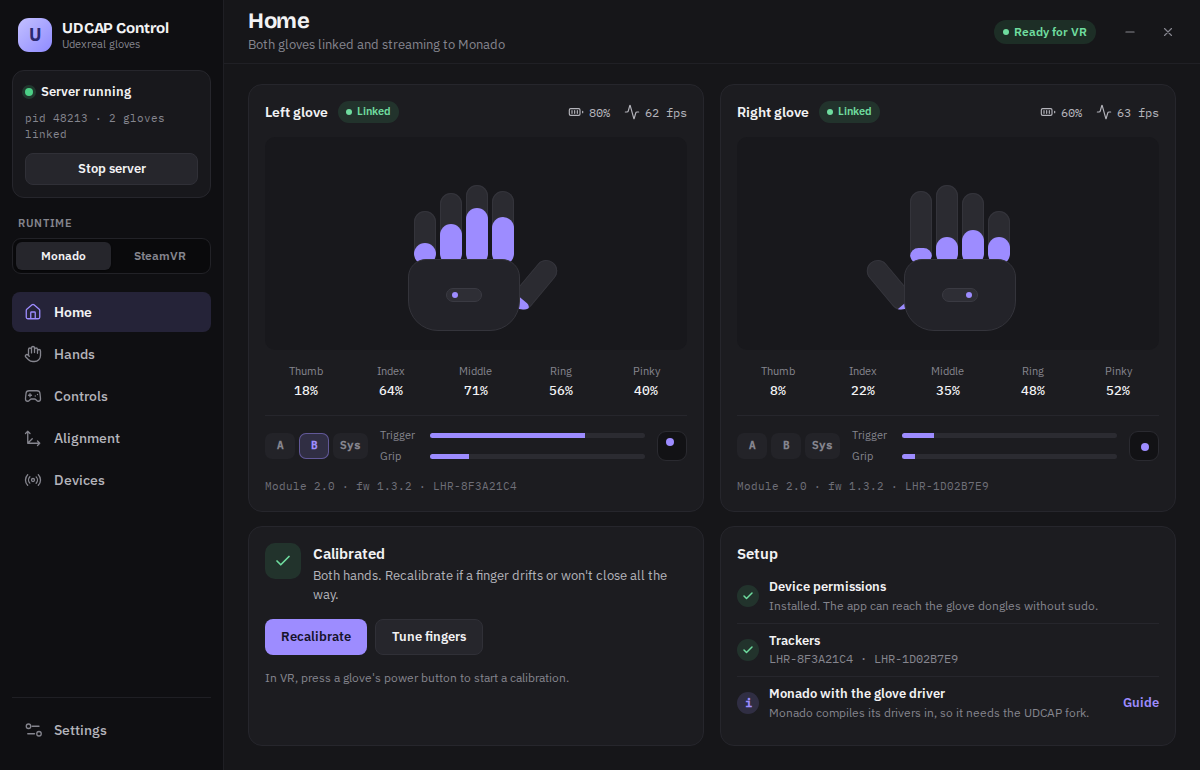
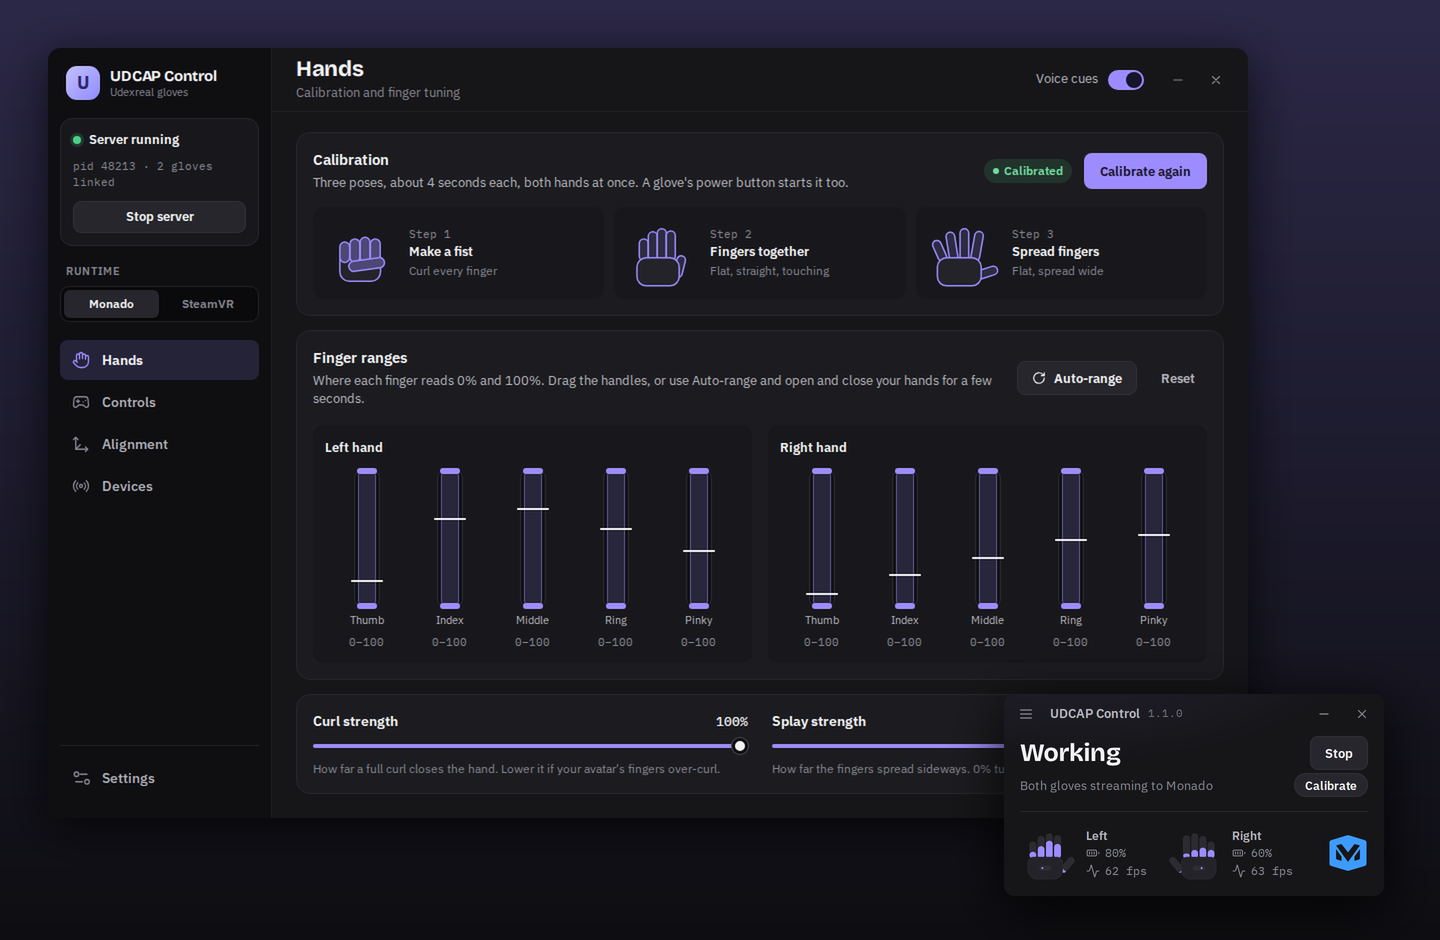
chore: update readme with new screenshots

diff --git a/README.md b/README.md
@@ -15,13 +15,15 @@
 UDCAP Control is the desktop app that sits between your gloves and your VR runtime. It talks to the gloves, keeps them connected, and turns them into a pair of Index-style controllers with full finger tracking.
 
 - **Works with Monado and SteamVR.** Pick your runtime with one toggle. SteamVR users get the driver installed on first launch. Monado users run the [Monado fork](https://github.com/Eidenz/Monado) that has the glove driver built in.
+- **Set up once.** The first launch walks you through the runtime, the device permissions, the driver and your trackers.
+- **A small window for every day.** Like SteamVR's status window, it shows both gloves, their battery and the runtime connection, with the full app one click away.
 - **Guided calibration.** Start it from the app or with the glove's power button, and follow the audio cues.
 - **Fine-tune each finger.** Live readouts with draggable handles for every finger's range, plus overall curl strength and finger splay.
 - **Make the gloves feel like controllers.** Remap A, B, System and the stick on a picture of the glove. Choose which finger drives the trigger and which drives the grip. Calibrate the thumbstick. Test the vibration.
 - **Fix the hand position per game.** Alignment profiles hold the position and rotation offsets for each hand, so VRChat and your other games can each have their own. Switch profiles live.
 - **Pair and stay connected.** Pair gloves to their receivers, change the radio channel to dodge interference, and let the app reconnect a glove that was switched off and on again.
 
-If a finger ever refuses to track, Settings has a hidden debug page with a guided range test and a report you can share.
+If a finger ever refuses to track, Settings has a diagnostics page with a guided range test and a report you can share.
 
 ## Requirements
 
@@ -37,13 +39,15 @@ Grab the `.deb`, `.rpm` or `.AppImage` from the [releases page](https://github.c
 
 ## Using it
 
-1. Plug in the receivers and switch the gloves on.
-2. Open the app. On the **Status** page, accept the device permissions prompt once so the app can talk to the receivers.
-3. Choose **Monado** or **SteamVR** with the runtime toggle. For SteamVR, press **Install** when the app offers the driver. For Monado, follow the guide in Settings if you have not set up the fork yet.
-4. Go to **Calibrate** and follow the three poses. Your fingers now track.
+![The small window in its different states](screenshot-minimal.png)
+
+1. Plug in the receivers.
+2. Open the app and follow the first-launch setup.
+3. Press **Start** in the small window and switch the gloves on.
+4. Press **Calibrate** and follow the three poses. Your fingers now track.
 5. Start your runtime. Launch UDCAP Control before SteamVR, so the driver can find the gloves.
 
-The **Fingers**, **Controls** and **Space** pages are there when something needs tuning. Nothing there is required to get going.
+The runtime's logo in the corner turns blue once it has picked up the gloves. The menu opens the **Hands**, **Controls**, **Alignment**, **Devices** and **Settings** pages when something needs tuning.
 
 ## Troubleshooting
 
@@ -53,9 +57,9 @@ The **Fingers**, **Controls** and **Space** pages are there when something needs
 
 **A glove stopped responding after I switched it off.** The app resets the receiver and picks the glove back up on its own. Give it a few seconds.
 
-**My hands sit in the wrong place or point the wrong way.** Open the **Space** page and adjust the offsets for that hand. Save them into a profile named after the game.
+**My hands sit in the wrong place or point the wrong way.** Open the **Alignment** page and adjust the offsets for that hand. Save them into a profile named after the game.
 
-**One finger won't track or moves the wrong way.** Run calibration again, keeping the glove snug and each finger still during the fist pose. If it persists, open the debug page from Settings and send the report.
+**One finger won't track or moves the wrong way.** Run calibration again, keeping the glove snug and each finger still during the fist pose. If it persists, open **Diagnostics** from Settings and send the report.
 
 ## Development
 
